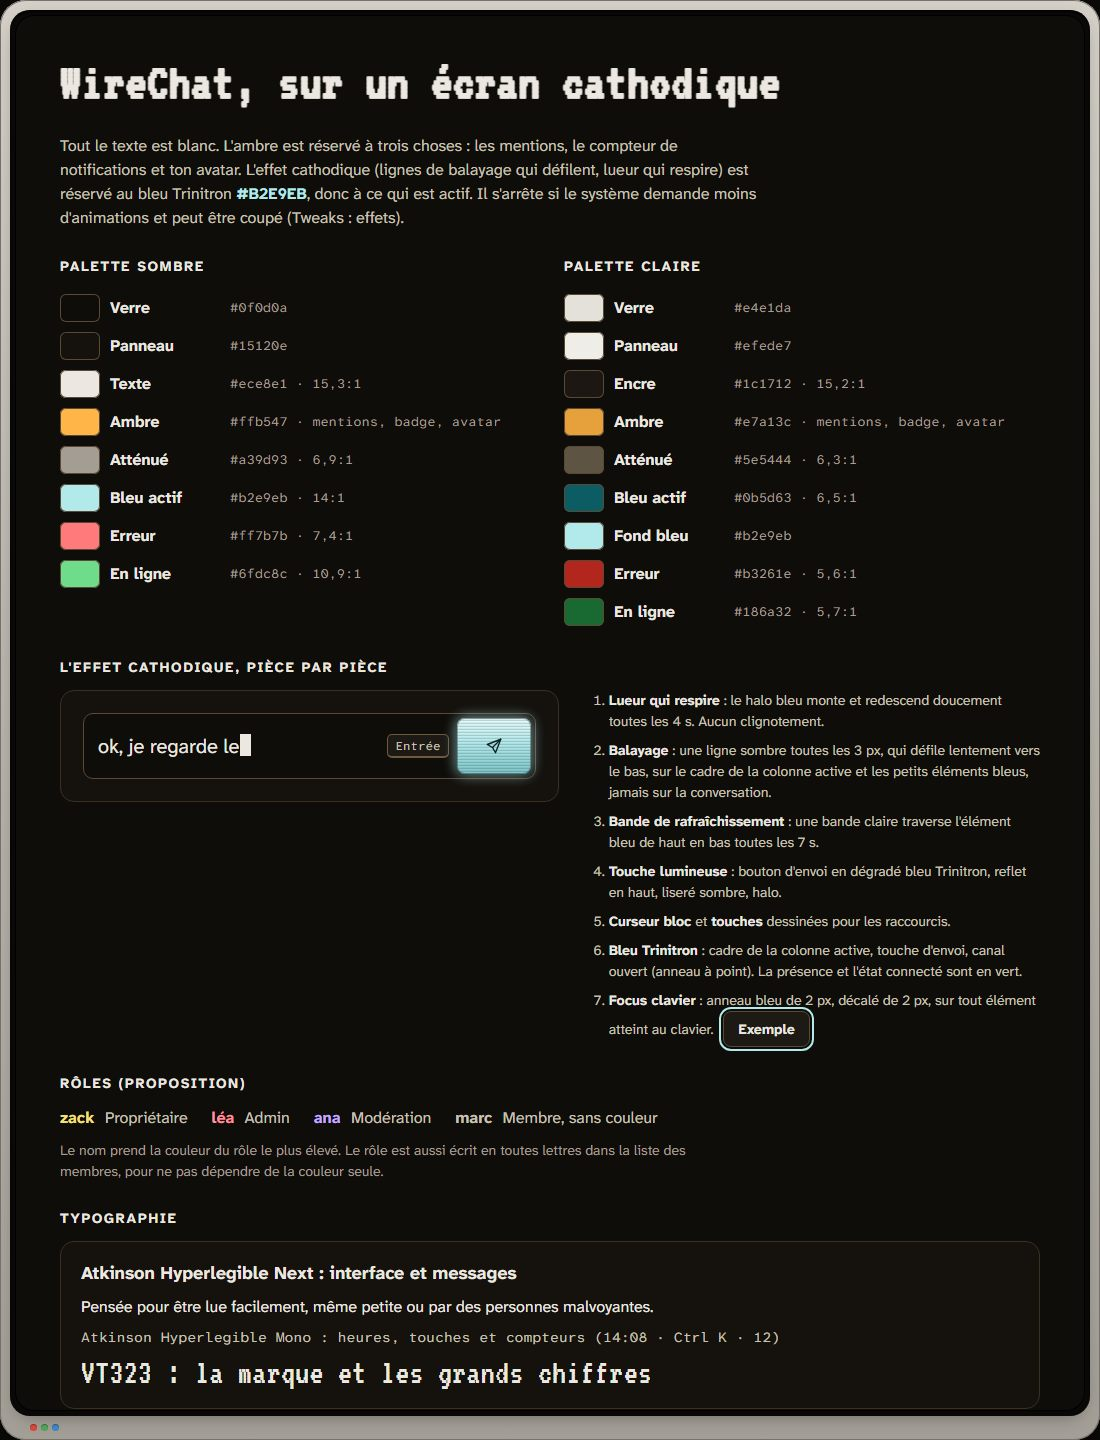
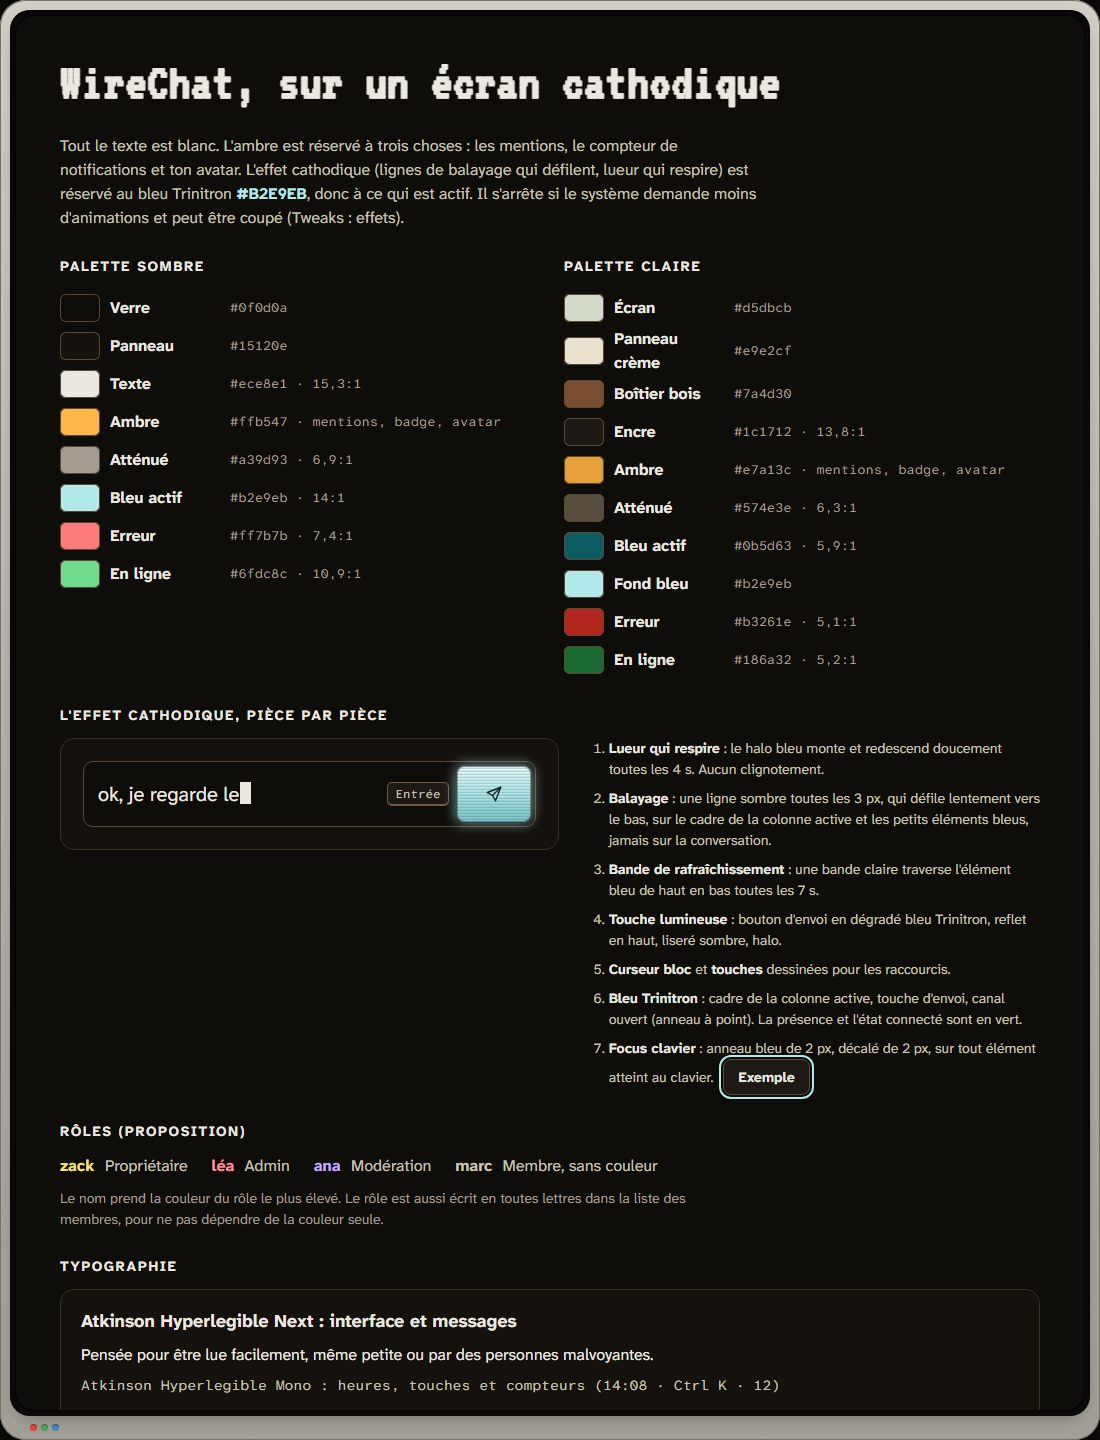
Replace leftover white highlights with off-white

diff --git a/Crt-Chat.html b/Crt-Chat.html
@@ -5,9 +5,9 @@
 <link rel="stylesheet" href="https://fonts.googleapis.com/css2?family=Atkinson+Hyperlegible+Next:wght@400;500;700&family=Atkinson+Hyperlegible+Mono:wght@400;700&family=VT323&display=swap">
 <style>
 body{margin:0;background:#0b0a08}
-.dark{--chassis:#1d1b18;--rim:#8e8a82;--glass:#0f0d0a;--panel:#15120e;--raise:#1d1914;--line:#3a3022;--line2:#5a4a33;--ph:#ece8e1;--ph2:#c8c2b8;--dim:#a39d93;--hot:#ece8e1;--amb:#ffb547;--amb-hi:#ffd58f;--amb-lo:#d98a1c;--onamb:#1a1206;--blue:#b2e9eb;--blue-ink:#b2e9eb;--blue-fill:rgba(178,233,235,.14);--key-b-hi:#e6fbfc;--key-b:#b2e9eb;--key-b-lo:#7cc5c9;--onblue:#0b2427;--ok:#6fdc8c;--r-own:#f5e17a;--r-adm:#ff8f9e;--r-mod:#c4a8ff;--focus:#b2e9eb;--blue-glow:rgba(178,233,235,.38);--err:#ff7b7b;--glow:none;--glow-a:none;--glow-b:0 0 7px rgba(178,233,235,.45);--scan:rgba(0,0,0,.13);--vig:rgba(0,0,0,.42);--sel:rgba(255,181,71,.28);--field:rgba(255,170,60,.06);--keyb:#6e5b3f}
-.light{--chassis:#7a4d30;--rim:#4a2d1b;--glass:#d5dbcb;--panel:#e9e2cf;--raise:#f0eadb;--line:#cbbf9f;--line2:#978b70;--ph:#1c1712;--ph2:#3d3427;--dim:#574e3e;--hot:#1c1712;--amb:#e7a13c;--amb-hi:#f6c77a;--amb-lo:#c8811a;--onamb:#1a1206;--blue:#0b5d63;--blue-ink:#0b5d63;--blue-fill:#b2e9eb;--key-b-hi:#2a8a91;--key-b:#0b5d63;--key-b-lo:#07454a;--onblue:#f0eadb;--ok:#186a32;--r-own:#6b5800;--r-adm:#a8283e;--r-mod:#5b3aa8;--focus:#0b5d63;--blue-glow:rgba(11,93,99,.22);--err:#b3261e;--glow:none;--glow-a:none;--glow-b:none;--scan:rgba(40,30,15,.05);--vig:rgba(70,58,38,.14);--sel:rgba(231,161,60,.35);--field:rgba(255,255,255,.35);--keyb:#978b70}
-.tv{position:relative;box-sizing:border-box;width:100%;height:100%;padding:16px 16px 30px;border-radius:26px;background:linear-gradient(180deg,#d4d0c8 0%,#b9b5ad 48%,#a39f97 100%);box-shadow:inset 0 0 0 1px #77736c,inset 0 1px 0 rgba(255,255,255,.6),0 10px 30px rgba(0,0,0,.45)}
+.dark{--chassis:#1d1b18;--rim:#8e8a82;--glass:#0f0d0a;--panel:#15120e;--raise:#1d1914;--line:#3a3022;--line2:#5a4a33;--ph:#ece8e1;--ph2:#c8c2b8;--dim:#a39d93;--hot:#ece8e1;--amb:#ffb547;--amb-hi:#ffd58f;--amb-lo:#d98a1c;--onamb:#1a1206;--blue:#b2e9eb;--blue-ink:#b2e9eb;--blue-fill:rgba(178,233,235,.14);--key-b-hi:#e6fbfc;--key-b:#b2e9eb;--key-b-lo:#7cc5c9;--onblue:#0b2427;--ok:#6fdc8c;--r-own:#f5e17a;--r-adm:#ff8f9e;--r-mod:#c4a8ff;--focus:#b2e9eb;--blue-glow:rgba(178,233,235,.38);--err:#ff7b7b;--glow:none;--glow-a:none;--glow-b:0 0 7px rgba(178,233,235,.45);--scan:rgba(0,0,0,.13);--vig:rgba(0,0,0,.42);--sel:rgba(255,181,71,.28);--keyb:#6e5b3f}
+.light{--chassis:#7a4d30;--rim:#4a2d1b;--glass:#d5dbcb;--panel:#e9e2cf;--raise:#f0eadb;--line:#cbbf9f;--line2:#978b70;--ph:#1c1712;--ph2:#3d3427;--dim:#574e3e;--hot:#1c1712;--amb:#e7a13c;--amb-hi:#f6c77a;--amb-lo:#c8811a;--onamb:#1a1206;--blue:#0b5d63;--blue-ink:#0b5d63;--blue-fill:#b2e9eb;--key-b-hi:#2a8a91;--key-b:#0b5d63;--key-b-lo:#07454a;--onblue:#f0eadb;--ok:#186a32;--r-own:#6b5800;--r-adm:#a8283e;--r-mod:#5b3aa8;--focus:#0b5d63;--blue-glow:rgba(11,93,99,.22);--err:#b3261e;--glow:none;--glow-a:none;--glow-b:none;--scan:rgba(40,30,15,.05);--vig:rgba(70,58,38,.14);--sel:rgba(231,161,60,.35);--keyb:#978b70}
+.tv{position:relative;box-sizing:border-box;width:100%;height:100%;padding:16px 16px 30px;border-radius:26px;background:linear-gradient(180deg,#d4d0c8 0%,#b9b5ad 48%,#a39f97 100%);box-shadow:inset 0 0 0 1px #77736c,inset 0 1px 0 rgba(240,234,219,.6),0 10px 30px rgba(0,0,0,.45)}
 .tv:before{content:"";position:absolute;inset:10px 10px 24px;border-radius:20px;background:#0c0b0a;box-shadow:inset 0 2px 3px rgba(0,0,0,.8)}
 .tv>.screen{position:relative;z-index:1}
 .bezel-triad{position:absolute;left:30px;bottom:9px;display:flex;gap:4px;z-index:2}.bezel-triad i{width:7px;height:7px;border-radius:50%;background:#d8473a;box-shadow:inset 0 1px 1px rgba(0,0,0,.35)}.bezel-triad i:nth-child(2){background:#4fa45a}.bezel-triad i:nth-child(3){background:#3f86c6}
@@ -85,7 +85,7 @@ button{font:inherit;color:inherit;text-shadow:inherit;background:none;border:0;p
 .focus .field{border-color:var(--blue);box-shadow:0 0 0 1px var(--blue-glow)}
 .field .val{flex:1;color:var(--ph);white-space:nowrap;overflow:hidden}
 .caret{display:inline-block;width:9px;height:18px;vertical-align:-3px;background:var(--ph);box-shadow:var(--glow);margin-left:1px}
-.send{width:52px;height:40px;display:flex;align-items:center;justify-content:center;border-radius:8px;color:var(--onamb);text-shadow:none;background:linear-gradient(180deg,var(--amb-hi) 0%,var(--amb) 46%,var(--amb-lo) 100%);box-shadow:inset 0 0 0 1px rgba(0,0,0,.32),inset 0 1px 0 rgba(255,255,255,.45),0 0 14px var(--sel),0 2px 4px rgba(0,0,0,.35)}
+.send{width:52px;height:40px;display:flex;align-items:center;justify-content:center;border-radius:8px;color:var(--onamb);text-shadow:none;background:linear-gradient(180deg,var(--amb-hi) 0%,var(--amb) 46%,var(--amb-lo) 100%);box-shadow:inset 0 0 0 1px rgba(0,0,0,.32),inset 0 1px 0 rgba(240,234,219,.45),0 0 14px var(--sel),0 2px 4px rgba(0,0,0,.35)}
 .status{display:flex;align-items:center;gap:16px;padding:0 18px;border-top:1px solid var(--line);font-size:13px;color:var(--dim);white-space:nowrap}
 .status .live{display:flex;align-items:center;gap:8px;color:var(--ok);font-weight:700}
 .status .live i{width:8px;height:8px;border-radius:50%;background:var(--ok)}
@@ -106,7 +106,7 @@ button{font:inherit;color:inherit;text-shadow:inherit;background:none;border:0;p
 .stats .tag{align-self:flex-start;margin-top:auto}
 .sec .gear.gon{color:var(--blue-ink);text-shadow:var(--glow-b)}
 
-.btn.pri{color:var(--onamb);text-shadow:none;border-color:var(--amb-lo);background:linear-gradient(180deg,var(--amb-hi),var(--amb) 50%,var(--amb-lo));box-shadow:inset 0 1px 0 rgba(255,255,255,.4),0 0 12px var(--sel);min-height:44px}
+.btn.pri{color:var(--onamb);text-shadow:none;border-color:var(--amb-lo);background:linear-gradient(180deg,var(--amb-hi),var(--amb) 50%,var(--amb-lo));box-shadow:inset 0 1px 0 rgba(240,234,219,.4),0 0 12px var(--sel);min-height:44px}
 .btn.dng{border-color:var(--err);color:var(--err);min-height:44px}
 .btn.sm{min-height:36px;padding:0 12px;font-size:13px}
 .stats{background:linear-gradient(170deg,var(--amb-hi),var(--amb) 55%,var(--amb-lo));border-color:var(--amb-lo);color:var(--onamb);text-shadow:none;box-shadow:0 0 22px var(--sel)}
@@ -186,7 +186,7 @@ button{font:inherit;color:inherit;text-shadow:inherit;background:none;border:0;p
 @keyframes crt-breathe-frame{from{box-shadow:0 0 0 1px var(--blue),0 0 10px var(--blue-glow),inset 0 0 14px var(--blue-fill)}to{box-shadow:0 0 0 1px var(--blue),0 0 24px var(--blue-glow),inset 0 0 26px var(--blue-fill)}}
 @keyframes crt-text{from{text-shadow:0 0 3px var(--blue-glow)}to{text-shadow:0 0 9px var(--blue-glow)}}
 @media (prefers-reduced-motion:reduce){.fx *,.fx *:before,.fx *:after{animation:none!important}}
-.send{color:var(--onblue);background-color:var(--key-b);background-image:linear-gradient(180deg,var(--key-b-hi) 0%,var(--key-b) 46%,var(--key-b-lo) 100%);box-shadow:inset 0 0 0 1px rgba(0,0,0,.32),inset 0 1px 0 rgba(255,255,255,.45),0 0 14px var(--blue-glow),0 2px 4px rgba(0,0,0,.35)}
+.send{color:var(--onblue);background-color:var(--key-b);background-image:linear-gradient(180deg,var(--key-b-hi) 0%,var(--key-b) 46%,var(--key-b-lo) 100%);box-shadow:inset 0 0 0 1px rgba(0,0,0,.32),inset 0 1px 0 rgba(240,234,219,.45),0 0 14px var(--blue-glow),0 2px 4px rgba(0,0,0,.35)}
 .chip.mine{border-color:var(--blue);background:var(--blue-fill);box-shadow:var(--glow-b)}
 .me,.btn.pri,.sv .badge{background-image:none;background-color:var(--amb);box-shadow:inset 0 0 0 1px var(--amb-lo)}
 .ch .dot{margin-right:-2px}

diff --git a/Crt-Dashboard.html b/Crt-Dashboard.html
@@ -5,9 +5,9 @@
 <link rel="stylesheet" href="https://fonts.googleapis.com/css2?family=Atkinson+Hyperlegible+Next:wght@400;500;700&family=Atkinson+Hyperlegible+Mono:wght@400;700&family=VT323&display=swap">
 <style>
 body{margin:0;background:#0b0a08}
-.dark{--chassis:#1d1b18;--rim:#8e8a82;--glass:#0f0d0a;--panel:#15120e;--raise:#1d1914;--line:#3a3022;--line2:#5a4a33;--ph:#ece8e1;--ph2:#c8c2b8;--dim:#a39d93;--hot:#ece8e1;--amb:#ffb547;--amb-hi:#ffd58f;--amb-lo:#d98a1c;--onamb:#1a1206;--blue:#b2e9eb;--blue-ink:#b2e9eb;--blue-fill:rgba(178,233,235,.14);--key-b-hi:#e6fbfc;--key-b:#b2e9eb;--key-b-lo:#7cc5c9;--onblue:#0b2427;--ok:#6fdc8c;--r-own:#f5e17a;--r-adm:#ff8f9e;--r-mod:#c4a8ff;--focus:#b2e9eb;--blue-glow:rgba(178,233,235,.38);--err:#ff7b7b;--glow:none;--glow-a:none;--glow-b:0 0 7px rgba(178,233,235,.45);--scan:rgba(0,0,0,.13);--vig:rgba(0,0,0,.42);--sel:rgba(255,181,71,.28);--field:rgba(255,170,60,.06);--keyb:#6e5b3f}
-.light{--chassis:#7a4d30;--rim:#4a2d1b;--glass:#d5dbcb;--panel:#e9e2cf;--raise:#f0eadb;--line:#cbbf9f;--line2:#978b70;--ph:#1c1712;--ph2:#3d3427;--dim:#574e3e;--hot:#1c1712;--amb:#e7a13c;--amb-hi:#f6c77a;--amb-lo:#c8811a;--onamb:#1a1206;--blue:#0b5d63;--blue-ink:#0b5d63;--blue-fill:#b2e9eb;--key-b-hi:#2a8a91;--key-b:#0b5d63;--key-b-lo:#07454a;--onblue:#f0eadb;--ok:#186a32;--r-own:#6b5800;--r-adm:#a8283e;--r-mod:#5b3aa8;--focus:#0b5d63;--blue-glow:rgba(11,93,99,.22);--err:#b3261e;--glow:none;--glow-a:none;--glow-b:none;--scan:rgba(40,30,15,.05);--vig:rgba(70,58,38,.14);--sel:rgba(231,161,60,.35);--field:rgba(255,255,255,.35);--keyb:#978b70}
-.tv{position:relative;box-sizing:border-box;width:100%;height:100%;padding:16px 16px 30px;border-radius:26px;background:linear-gradient(180deg,#d4d0c8 0%,#b9b5ad 48%,#a39f97 100%);box-shadow:inset 0 0 0 1px #77736c,inset 0 1px 0 rgba(255,255,255,.6),0 10px 30px rgba(0,0,0,.45)}
+.dark{--chassis:#1d1b18;--rim:#8e8a82;--glass:#0f0d0a;--panel:#15120e;--raise:#1d1914;--line:#3a3022;--line2:#5a4a33;--ph:#ece8e1;--ph2:#c8c2b8;--dim:#a39d93;--hot:#ece8e1;--amb:#ffb547;--amb-hi:#ffd58f;--amb-lo:#d98a1c;--onamb:#1a1206;--blue:#b2e9eb;--blue-ink:#b2e9eb;--blue-fill:rgba(178,233,235,.14);--key-b-hi:#e6fbfc;--key-b:#b2e9eb;--key-b-lo:#7cc5c9;--onblue:#0b2427;--ok:#6fdc8c;--r-own:#f5e17a;--r-adm:#ff8f9e;--r-mod:#c4a8ff;--focus:#b2e9eb;--blue-glow:rgba(178,233,235,.38);--err:#ff7b7b;--glow:none;--glow-a:none;--glow-b:0 0 7px rgba(178,233,235,.45);--scan:rgba(0,0,0,.13);--vig:rgba(0,0,0,.42);--sel:rgba(255,181,71,.28);--keyb:#6e5b3f}
+.light{--chassis:#7a4d30;--rim:#4a2d1b;--glass:#d5dbcb;--panel:#e9e2cf;--raise:#f0eadb;--line:#cbbf9f;--line2:#978b70;--ph:#1c1712;--ph2:#3d3427;--dim:#574e3e;--hot:#1c1712;--amb:#e7a13c;--amb-hi:#f6c77a;--amb-lo:#c8811a;--onamb:#1a1206;--blue:#0b5d63;--blue-ink:#0b5d63;--blue-fill:#b2e9eb;--key-b-hi:#2a8a91;--key-b:#0b5d63;--key-b-lo:#07454a;--onblue:#f0eadb;--ok:#186a32;--r-own:#6b5800;--r-adm:#a8283e;--r-mod:#5b3aa8;--focus:#0b5d63;--blue-glow:rgba(11,93,99,.22);--err:#b3261e;--glow:none;--glow-a:none;--glow-b:none;--scan:rgba(40,30,15,.05);--vig:rgba(70,58,38,.14);--sel:rgba(231,161,60,.35);--keyb:#978b70}
+.tv{position:relative;box-sizing:border-box;width:100%;height:100%;padding:16px 16px 30px;border-radius:26px;background:linear-gradient(180deg,#d4d0c8 0%,#b9b5ad 48%,#a39f97 100%);box-shadow:inset 0 0 0 1px #77736c,inset 0 1px 0 rgba(240,234,219,.6),0 10px 30px rgba(0,0,0,.45)}
 .tv:before{content:"";position:absolute;inset:10px 10px 24px;border-radius:20px;background:#0c0b0a;box-shadow:inset 0 2px 3px rgba(0,0,0,.8)}
 .tv>.screen{position:relative;z-index:1}
 .bezel-triad{position:absolute;left:30px;bottom:9px;display:flex;gap:4px;z-index:2}.bezel-triad i{width:7px;height:7px;border-radius:50%;background:#d8473a;box-shadow:inset 0 1px 1px rgba(0,0,0,.35)}.bezel-triad i:nth-child(2){background:#4fa45a}.bezel-triad i:nth-child(3){background:#3f86c6}
@@ -85,7 +85,7 @@ button{font:inherit;color:inherit;text-shadow:inherit;background:none;border:0;p
 .focus .field{border-color:var(--blue);box-shadow:0 0 0 1px var(--blue-glow)}
 .field .val{flex:1;color:var(--ph);white-space:nowrap;overflow:hidden}
 .caret{display:inline-block;width:9px;height:18px;vertical-align:-3px;background:var(--ph);box-shadow:var(--glow);margin-left:1px}
-.send{width:52px;height:40px;display:flex;align-items:center;justify-content:center;border-radius:8px;color:var(--onamb);text-shadow:none;background:linear-gradient(180deg,var(--amb-hi) 0%,var(--amb) 46%,var(--amb-lo) 100%);box-shadow:inset 0 0 0 1px rgba(0,0,0,.32),inset 0 1px 0 rgba(255,255,255,.45),0 0 14px var(--sel),0 2px 4px rgba(0,0,0,.35)}
+.send{width:52px;height:40px;display:flex;align-items:center;justify-content:center;border-radius:8px;color:var(--onamb);text-shadow:none;background:linear-gradient(180deg,var(--amb-hi) 0%,var(--amb) 46%,var(--amb-lo) 100%);box-shadow:inset 0 0 0 1px rgba(0,0,0,.32),inset 0 1px 0 rgba(240,234,219,.45),0 0 14px var(--sel),0 2px 4px rgba(0,0,0,.35)}
 .status{display:flex;align-items:center;gap:16px;padding:0 18px;border-top:1px solid var(--line);font-size:13px;color:var(--dim);white-space:nowrap}
 .status .live{display:flex;align-items:center;gap:8px;color:var(--ok);font-weight:700}
 .status .live i{width:8px;height:8px;border-radius:50%;background:var(--ok)}
@@ -106,7 +106,7 @@ button{font:inherit;color:inherit;text-shadow:inherit;background:none;border:0;p
 .stats .tag{align-self:flex-start;margin-top:auto}
 .sec .gear.gon{color:var(--blue-ink);text-shadow:var(--glow-b)}
 
-.btn.pri{color:var(--onamb);text-shadow:none;border-color:var(--amb-lo);background:linear-gradient(180deg,var(--amb-hi),var(--amb) 50%,var(--amb-lo));box-shadow:inset 0 1px 0 rgba(255,255,255,.4),0 0 12px var(--sel);min-height:44px}
+.btn.pri{color:var(--onamb);text-shadow:none;border-color:var(--amb-lo);background:linear-gradient(180deg,var(--amb-hi),var(--amb) 50%,var(--amb-lo));box-shadow:inset 0 1px 0 rgba(240,234,219,.4),0 0 12px var(--sel);min-height:44px}
 .btn.dng{border-color:var(--err);color:var(--err);min-height:44px}
 .btn.sm{min-height:36px;padding:0 12px;font-size:13px}
 .stats{background:linear-gradient(170deg,var(--amb-hi),var(--amb) 55%,var(--amb-lo));border-color:var(--amb-lo);color:var(--onamb);text-shadow:none;box-shadow:0 0 22px var(--sel)}
@@ -186,7 +186,7 @@ button{font:inherit;color:inherit;text-shadow:inherit;background:none;border:0;p
 @keyframes crt-breathe-frame{from{box-shadow:0 0 0 1px var(--blue),0 0 10px var(--blue-glow),inset 0 0 14px var(--blue-fill)}to{box-shadow:0 0 0 1px var(--blue),0 0 24px var(--blue-glow),inset 0 0 26px var(--blue-fill)}}
 @keyframes crt-text{from{text-shadow:0 0 3px var(--blue-glow)}to{text-shadow:0 0 9px var(--blue-glow)}}
 @media (prefers-reduced-motion:reduce){.fx *,.fx *:before,.fx *:after{animation:none!important}}
-.send{color:var(--onblue);background-color:var(--key-b);background-image:linear-gradient(180deg,var(--key-b-hi) 0%,var(--key-b) 46%,var(--key-b-lo) 100%);box-shadow:inset 0 0 0 1px rgba(0,0,0,.32),inset 0 1px 0 rgba(255,255,255,.45),0 0 14px var(--blue-glow),0 2px 4px rgba(0,0,0,.35)}
+.send{color:var(--onblue);background-color:var(--key-b);background-image:linear-gradient(180deg,var(--key-b-hi) 0%,var(--key-b) 46%,var(--key-b-lo) 100%);box-shadow:inset 0 0 0 1px rgba(0,0,0,.32),inset 0 1px 0 rgba(240,234,219,.45),0 0 14px var(--blue-glow),0 2px 4px rgba(0,0,0,.35)}
 .chip.mine{border-color:var(--blue);background:var(--blue-fill);box-shadow:var(--glow-b)}
 .me,.btn.pri,.sv .badge{background-image:none;background-color:var(--amb);box-shadow:inset 0 0 0 1px var(--amb-lo)}
 .ch .dot{margin-right:-2px}

diff --git a/Crt-Spec.html b/Crt-Spec.html
@@ -5,9 +5,9 @@
 <link rel="stylesheet" href="https://fonts.googleapis.com/css2?family=Atkinson+Hyperlegible+Next:wght@400;500;700&family=Atkinson+Hyperlegible+Mono:wght@400;700&family=VT323&display=swap">
 <style>
 body{margin:0;background:#0b0a08}
-.dark{--chassis:#1d1b18;--rim:#8e8a82;--glass:#0f0d0a;--panel:#15120e;--raise:#1d1914;--line:#3a3022;--line2:#5a4a33;--ph:#ece8e1;--ph2:#c8c2b8;--dim:#a39d93;--hot:#ece8e1;--amb:#ffb547;--amb-hi:#ffd58f;--amb-lo:#d98a1c;--onamb:#1a1206;--blue:#b2e9eb;--blue-ink:#b2e9eb;--blue-fill:rgba(178,233,235,.14);--key-b-hi:#e6fbfc;--key-b:#b2e9eb;--key-b-lo:#7cc5c9;--onblue:#0b2427;--ok:#6fdc8c;--r-own:#f5e17a;--r-adm:#ff8f9e;--r-mod:#c4a8ff;--focus:#b2e9eb;--blue-glow:rgba(178,233,235,.38);--err:#ff7b7b;--glow:none;--glow-a:none;--glow-b:0 0 7px rgba(178,233,235,.45);--scan:rgba(0,0,0,.13);--vig:rgba(0,0,0,.42);--sel:rgba(255,181,71,.28);--field:rgba(255,170,60,.06);--keyb:#6e5b3f}
-.light{--chassis:#7a4d30;--rim:#4a2d1b;--glass:#d5dbcb;--panel:#e9e2cf;--raise:#f0eadb;--line:#cbbf9f;--line2:#978b70;--ph:#1c1712;--ph2:#3d3427;--dim:#574e3e;--hot:#1c1712;--amb:#e7a13c;--amb-hi:#f6c77a;--amb-lo:#c8811a;--onamb:#1a1206;--blue:#0b5d63;--blue-ink:#0b5d63;--blue-fill:#b2e9eb;--key-b-hi:#2a8a91;--key-b:#0b5d63;--key-b-lo:#07454a;--onblue:#f0eadb;--ok:#186a32;--r-own:#6b5800;--r-adm:#a8283e;--r-mod:#5b3aa8;--focus:#0b5d63;--blue-glow:rgba(11,93,99,.22);--err:#b3261e;--glow:none;--glow-a:none;--glow-b:none;--scan:rgba(40,30,15,.05);--vig:rgba(70,58,38,.14);--sel:rgba(231,161,60,.35);--field:rgba(255,255,255,.35);--keyb:#978b70}
-.tv{position:relative;box-sizing:border-box;width:100%;height:100%;padding:16px 16px 30px;border-radius:26px;background:linear-gradient(180deg,#d4d0c8 0%,#b9b5ad 48%,#a39f97 100%);box-shadow:inset 0 0 0 1px #77736c,inset 0 1px 0 rgba(255,255,255,.6),0 10px 30px rgba(0,0,0,.45)}
+.dark{--chassis:#1d1b18;--rim:#8e8a82;--glass:#0f0d0a;--panel:#15120e;--raise:#1d1914;--line:#3a3022;--line2:#5a4a33;--ph:#ece8e1;--ph2:#c8c2b8;--dim:#a39d93;--hot:#ece8e1;--amb:#ffb547;--amb-hi:#ffd58f;--amb-lo:#d98a1c;--onamb:#1a1206;--blue:#b2e9eb;--blue-ink:#b2e9eb;--blue-fill:rgba(178,233,235,.14);--key-b-hi:#e6fbfc;--key-b:#b2e9eb;--key-b-lo:#7cc5c9;--onblue:#0b2427;--ok:#6fdc8c;--r-own:#f5e17a;--r-adm:#ff8f9e;--r-mod:#c4a8ff;--focus:#b2e9eb;--blue-glow:rgba(178,233,235,.38);--err:#ff7b7b;--glow:none;--glow-a:none;--glow-b:0 0 7px rgba(178,233,235,.45);--scan:rgba(0,0,0,.13);--vig:rgba(0,0,0,.42);--sel:rgba(255,181,71,.28);--keyb:#6e5b3f}
+.light{--chassis:#7a4d30;--rim:#4a2d1b;--glass:#d5dbcb;--panel:#e9e2cf;--raise:#f0eadb;--line:#cbbf9f;--line2:#978b70;--ph:#1c1712;--ph2:#3d3427;--dim:#574e3e;--hot:#1c1712;--amb:#e7a13c;--amb-hi:#f6c77a;--amb-lo:#c8811a;--onamb:#1a1206;--blue:#0b5d63;--blue-ink:#0b5d63;--blue-fill:#b2e9eb;--key-b-hi:#2a8a91;--key-b:#0b5d63;--key-b-lo:#07454a;--onblue:#f0eadb;--ok:#186a32;--r-own:#6b5800;--r-adm:#a8283e;--r-mod:#5b3aa8;--focus:#0b5d63;--blue-glow:rgba(11,93,99,.22);--err:#b3261e;--glow:none;--glow-a:none;--glow-b:none;--scan:rgba(40,30,15,.05);--vig:rgba(70,58,38,.14);--sel:rgba(231,161,60,.35);--keyb:#978b70}
+.tv{position:relative;box-sizing:border-box;width:100%;height:100%;padding:16px 16px 30px;border-radius:26px;background:linear-gradient(180deg,#d4d0c8 0%,#b9b5ad 48%,#a39f97 100%);box-shadow:inset 0 0 0 1px #77736c,inset 0 1px 0 rgba(240,234,219,.6),0 10px 30px rgba(0,0,0,.45)}
 .tv:before{content:"";position:absolute;inset:10px 10px 24px;border-radius:20px;background:#0c0b0a;box-shadow:inset 0 2px 3px rgba(0,0,0,.8)}
 .tv>.screen{position:relative;z-index:1}
 .bezel-triad{position:absolute;left:30px;bottom:9px;display:flex;gap:4px;z-index:2}.bezel-triad i{width:7px;height:7px;border-radius:50%;background:#d8473a;box-shadow:inset 0 1px 1px rgba(0,0,0,.35)}.bezel-triad i:nth-child(2){background:#4fa45a}.bezel-triad i:nth-child(3){background:#3f86c6}
@@ -85,7 +85,7 @@ button{font:inherit;color:inherit;text-shadow:inherit;background:none;border:0;p
 .focus .field{border-color:var(--blue);box-shadow:0 0 0 1px var(--blue-glow)}
 .field .val{flex:1;color:var(--ph);white-space:nowrap;overflow:hidden}
 .caret{display:inline-block;width:9px;height:18px;vertical-align:-3px;background:var(--ph);box-shadow:var(--glow);margin-left:1px}
-.send{width:52px;height:40px;display:flex;align-items:center;justify-content:center;border-radius:8px;color:var(--onamb);text-shadow:none;background:linear-gradient(180deg,var(--amb-hi) 0%,var(--amb) 46%,var(--amb-lo) 100%);box-shadow:inset 0 0 0 1px rgba(0,0,0,.32),inset 0 1px 0 rgba(255,255,255,.45),0 0 14px var(--sel),0 2px 4px rgba(0,0,0,.35)}
+.send{width:52px;height:40px;display:flex;align-items:center;justify-content:center;border-radius:8px;color:var(--onamb);text-shadow:none;background:linear-gradient(180deg,var(--amb-hi) 0%,var(--amb) 46%,var(--amb-lo) 100%);box-shadow:inset 0 0 0 1px rgba(0,0,0,.32),inset 0 1px 0 rgba(240,234,219,.45),0 0 14px var(--sel),0 2px 4px rgba(0,0,0,.35)}
 .status{display:flex;align-items:center;gap:16px;padding:0 18px;border-top:1px solid var(--line);font-size:13px;color:var(--dim);white-space:nowrap}
 .status .live{display:flex;align-items:center;gap:8px;color:var(--ok);font-weight:700}
 .status .live i{width:8px;height:8px;border-radius:50%;background:var(--ok)}
@@ -106,7 +106,7 @@ button{font:inherit;color:inherit;text-shadow:inherit;background:none;border:0;p
 .stats .tag{align-self:flex-start;margin-top:auto}
 .sec .gear.gon{color:var(--blue-ink);text-shadow:var(--glow-b)}
 
-.btn.pri{color:var(--onamb);text-shadow:none;border-color:var(--amb-lo);background:linear-gradient(180deg,var(--amb-hi),var(--amb) 50%,var(--amb-lo));box-shadow:inset 0 1px 0 rgba(255,255,255,.4),0 0 12px var(--sel);min-height:44px}
+.btn.pri{color:var(--onamb);text-shadow:none;border-color:var(--amb-lo);background:linear-gradient(180deg,var(--amb-hi),var(--amb) 50%,var(--amb-lo));box-shadow:inset 0 1px 0 rgba(240,234,219,.4),0 0 12px var(--sel);min-height:44px}
 .btn.dng{border-color:var(--err);color:var(--err);min-height:44px}
 .btn.sm{min-height:36px;padding:0 12px;font-size:13px}
 .stats{background:linear-gradient(170deg,var(--amb-hi),var(--amb) 55%,var(--amb-lo));border-color:var(--amb-lo);color:var(--onamb);text-shadow:none;box-shadow:0 0 22px var(--sel)}
@@ -186,7 +186,7 @@ button{font:inherit;color:inherit;text-shadow:inherit;background:none;border:0;p
 @keyframes crt-breathe-frame{from{box-shadow:0 0 0 1px var(--blue),0 0 10px var(--blue-glow),inset 0 0 14px var(--blue-fill)}to{box-shadow:0 0 0 1px var(--blue),0 0 24px var(--blue-glow),inset 0 0 26px var(--blue-fill)}}
 @keyframes crt-text{from{text-shadow:0 0 3px var(--blue-glow)}to{text-shadow:0 0 9px var(--blue-glow)}}
 @media (prefers-reduced-motion:reduce){.fx *,.fx *:before,.fx *:after{animation:none!important}}
-.send{color:var(--onblue);background-color:var(--key-b);background-image:linear-gradient(180deg,var(--key-b-hi) 0%,var(--key-b) 46%,var(--key-b-lo) 100%);box-shadow:inset 0 0 0 1px rgba(0,0,0,.32),inset 0 1px 0 rgba(255,255,255,.45),0 0 14px var(--blue-glow),0 2px 4px rgba(0,0,0,.35)}
+.send{color:var(--onblue);background-color:var(--key-b);background-image:linear-gradient(180deg,var(--key-b-hi) 0%,var(--key-b) 46%,var(--key-b-lo) 100%);box-shadow:inset 0 0 0 1px rgba(0,0,0,.32),inset 0 1px 0 rgba(240,234,219,.45),0 0 14px var(--blue-glow),0 2px 4px rgba(0,0,0,.35)}
 .chip.mine{border-color:var(--blue);background:var(--blue-fill);box-shadow:var(--glow-b)}
 .me,.btn.pri,.sv .badge{background-image:none;background-color:var(--amb);box-shadow:inset 0 0 0 1px var(--amb-lo)}
 .ch .dot{margin-right:-2px}
